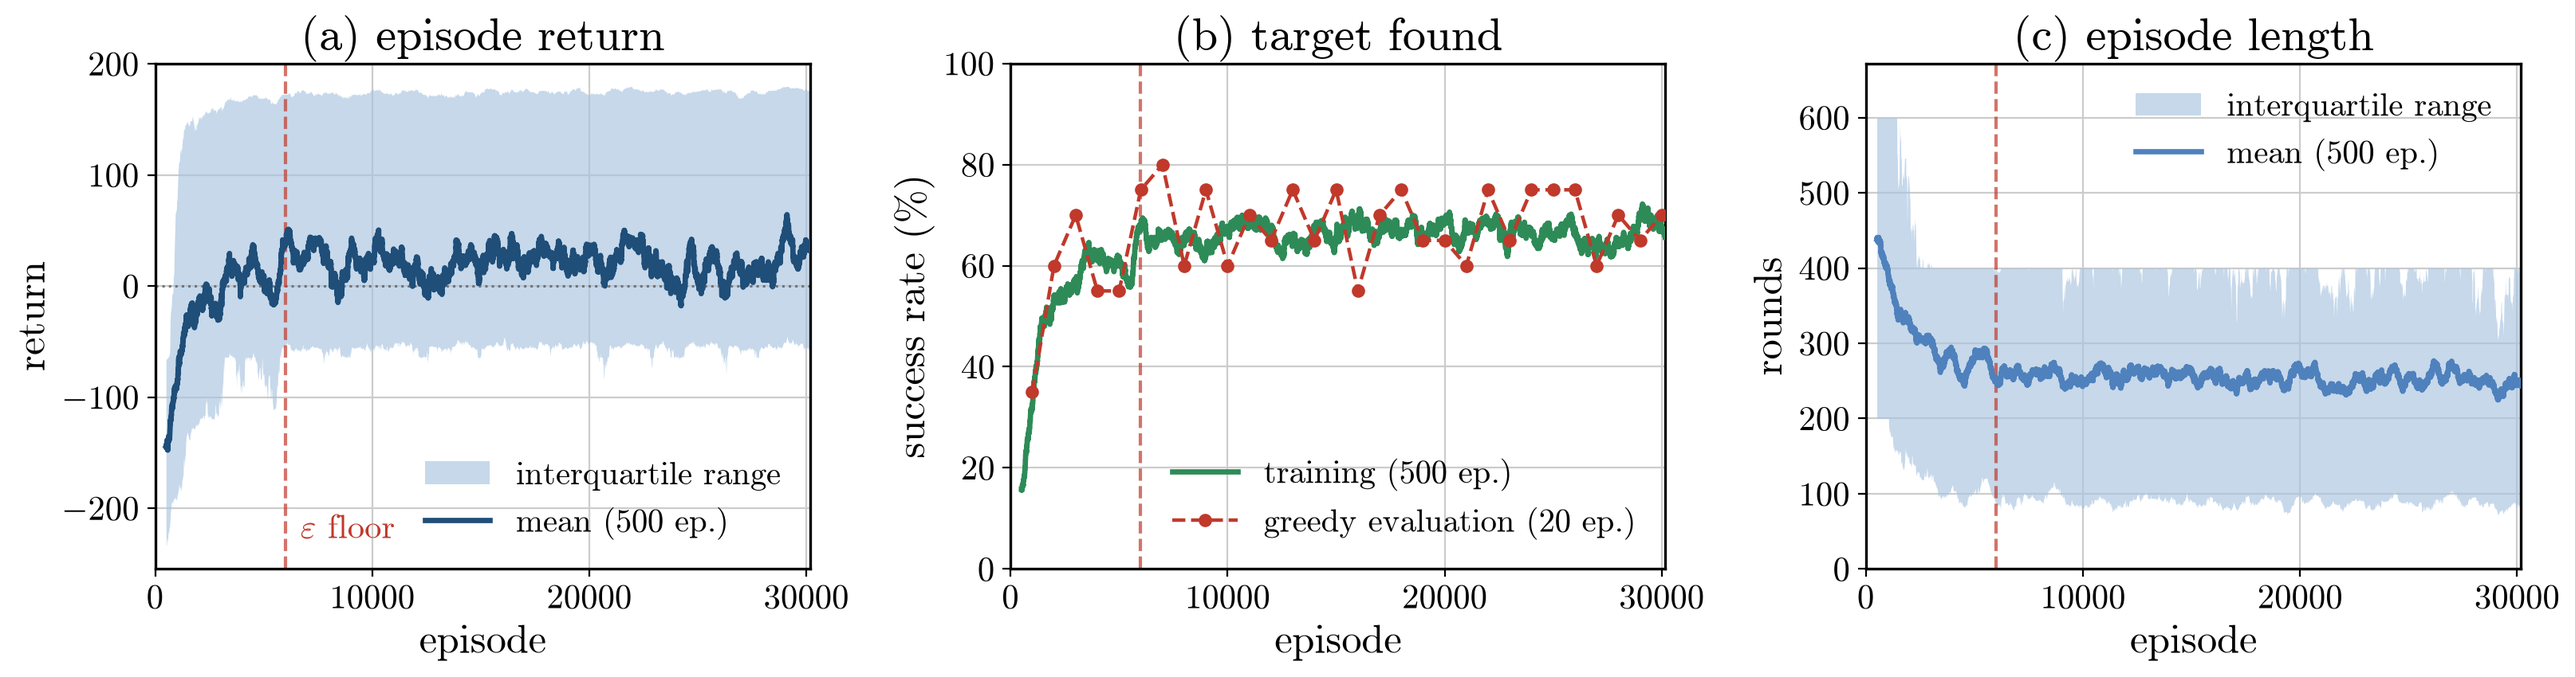
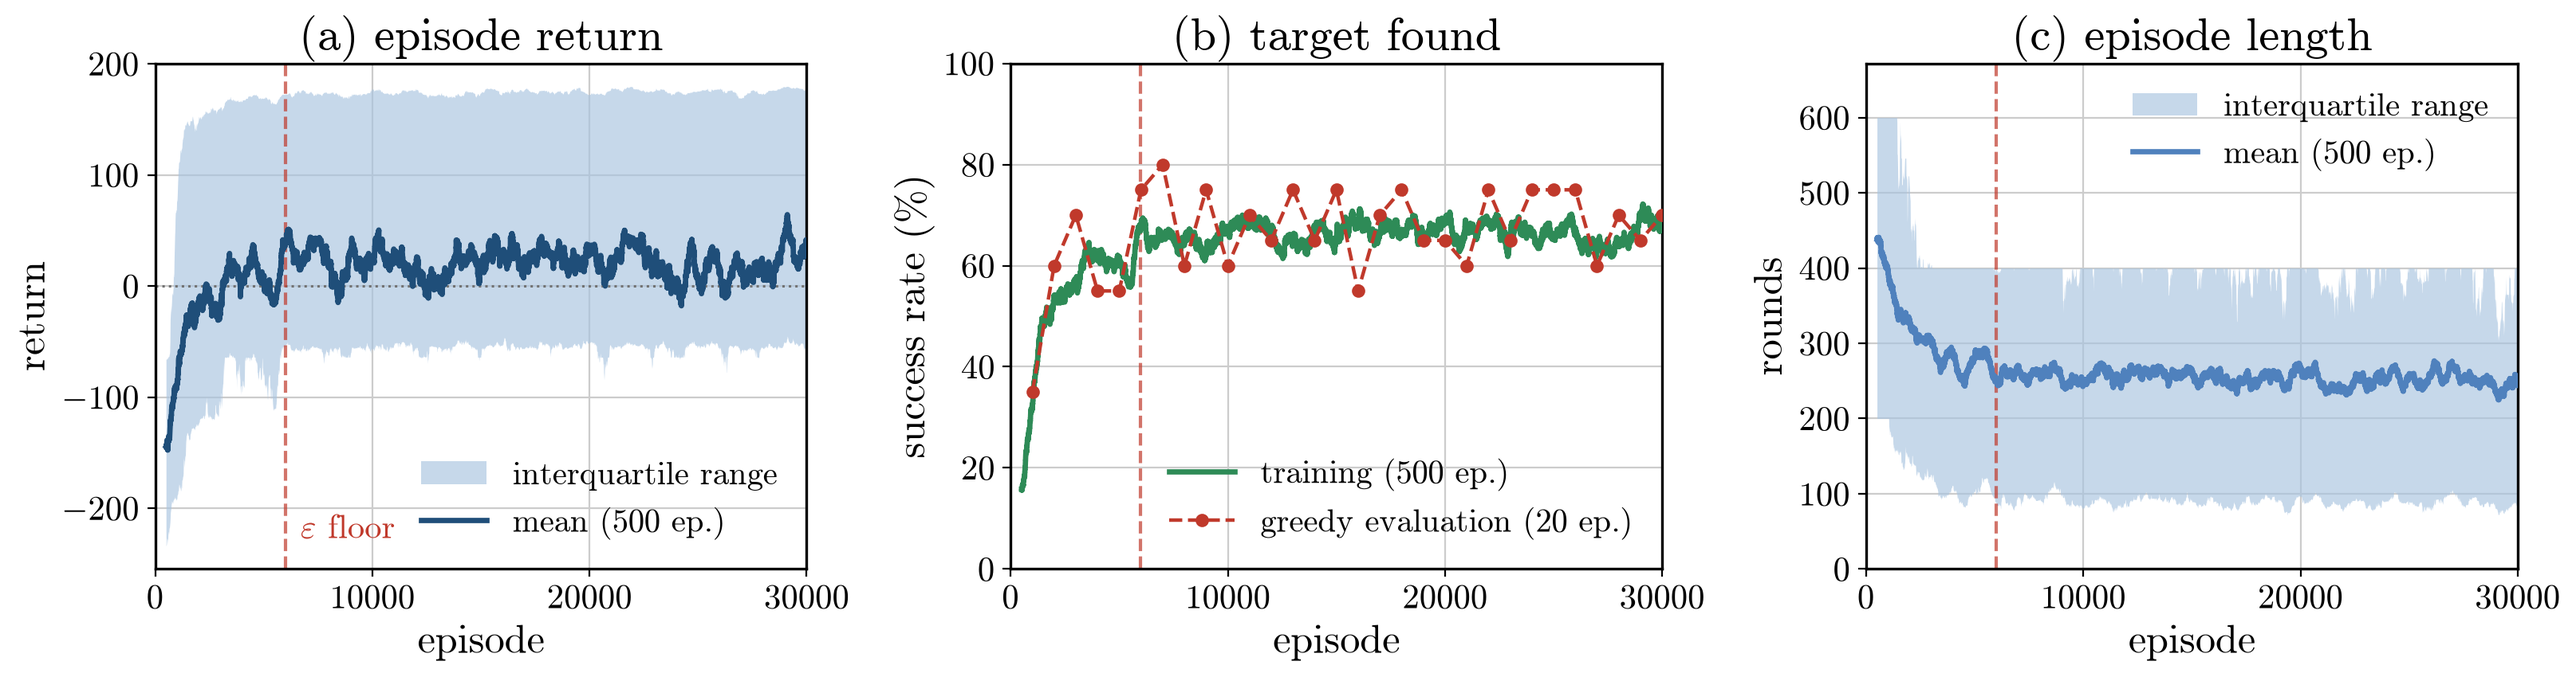
Report: reframe training-telemetry figures as the first 30,000-episode tranche
Present Figures 5 and 6 as the first tranche of the multi-job run rather than
as a partial log, and tighten both captions.

- Sec. 5.5: the paragraph now states that the figures report the 30,000
  episodes that fitted inside a single allocation and that the curves have
  already stabilized by then.
- Round 30,169 to 30,000 in prose and captions, and clip the figure axes to
  30,000 so text and plots agree.
- Shorten both captions by roughly half.

diff --git a/report/sections/05_training.tex b/report/sections/05_training.tex
@@ -229,36 +229,29 @@ which is shorter than a $50{,}000$-episode run at this configuration. The
 final run was therefore executed as a \emph{sequence} of jobs, each resuming
 from \texttt{last.pt} and continuing the curriculum, schedules and optimizer
 state as if uninterrupted --- exactly the scenario the resumption machinery
-above was built for. Each job opens its own TensorBoard event file, and only
-the first was recovered: it covers episodes $1$ to $30{,}169$, the
-$2$d\,$22$h\,$53$m of training that fitted inside a single allocation. The
-later files were lost to the cluster's $40$-day purge of unmodified scratch
-files. Figures~\ref{fig:training-curves} and~\ref{fig:training-eval}
-therefore show the first $60\%$ of the run. Little is lost with the rest:
-every logged quantity has flattened by roughly episode $7{,}000$ and none of
-them trends over the $23{,}000$ logged episodes that follow, and the
-checkpoint-level learning curve of Figure~\ref{fig:epoch} --- reconstructed
-by re-evaluating the saved weights, and so independent of the event files ---
+above was built for. Each job logs to its own TensorBoard event file, and
+Figures~\ref{fig:training-curves} and~\ref{fig:training-eval} report the
+first tranche: the $30{,}000$ episodes that fitted inside a single
+allocation. They are the informative ones, since every logged quantity has
+flattened by roughly episode $7{,}000$ and none of them trends over the
+$23{,}000$ episodes that follow; the checkpoint-level learning curve of
+Figure~\ref{fig:epoch}, reconstructed by re-evaluating the saved weights,
 covers the full $50{,}000$ episodes.
 
 \begin{figure}[t]
 \centering
 \includegraphics[width=\textwidth]{fig_training_curves.png}
-\caption{Per-episode training telemetry over the first $30{,}169$ episodes of
+\caption{Per-episode training telemetry over the first $30{,}000$ episodes of
 the final run. Solid curves are $500$-episode moving averages, shaded bands
-the corresponding interquartile ranges, and the dashed vertical line marks
-the episode at which $\varepsilon$ reaches its floor
-(Figure~\ref{fig:schedules}a). \emph{(a)} Mean return crosses zero at around
-episode $2{,}500$ and settles near $+25$. \emph{(b)} The fraction of episodes
-in which the target is found climbs from $16\%$ to a plateau of
-$65\text{--}68\%$, with the fixed-instance greedy evaluation (red) tracking
-the exploratory training curve closely. \emph{(c)} Mean episode length falls
-from $440$ to roughly $250$ rounds, so the policy converges on \emph{whether}
-it finds the target and on \emph{how fast} together. The bands stay wide
-throughout because every episode draws a fresh randomization $\theta$: their
-width measures the difficulty mix of Section~\ref{subsec:train-dr} rather
-than instability, since a myopic solo drone in a cluttered map and a
-far-sighted team of four both fall inside every window.}
+the corresponding interquartile ranges; the dashed line marks the episode at
+which $\varepsilon$ reaches its floor (Figure~\ref{fig:schedules}a).
+\emph{(a)} Mean return crosses zero at around episode $2{,}500$ and settles
+near $+25$; \emph{(b)} the target is found in $65\text{--}68\%$ of episodes
+at the plateau, with the greedy evaluation (red) tracking the exploratory
+training curve; \emph{(c)} mean episode length falls from $440$ to roughly
+$250$ rounds. The bands stay wide because every episode draws a fresh
+randomization $\theta$: their width measures the difficulty mix of
+Section~\ref{subsec:train-dr}, not instability.}
 \label{fig:training-curves}
 \end{figure}
 
@@ -267,18 +260,14 @@ far-sighted team of four both fall inside every window.}
 \includegraphics[width=0.9\textwidth]{fig_training_eval.png}
 \caption{In-training greedy evaluation of the same run, executed every
 $1{,}000$ episodes on the fixed bank of $20$ seeded instances that drives
-checkpoint selection. \emph{(a)} Success rate and \emph{(b)} mean return,
-with the best value of each circled. These levels are deliberately not
-comparable with those of Section~\ref{sec:experiments}: the bank is drawn
-from the \emph{full} randomization ranges --- solo drones, $\rvis{=}1$,
-faults active --- whereas Section~\ref{sec:experiments} measures at the
-reference operating point, which sits at the centre of those ranges. The
+checkpoint selection; \emph{(a)} success rate and \emph{(b)} mean return,
+best values circled. These levels are not comparable with those of
+Section~\ref{sec:experiments}: this bank samples the \emph{full}
+randomization ranges --- solo drones, $\rvis{=}1$, faults active --- whereas
+Section~\ref{sec:experiments} measures at the reference operating point. The
 $5$-point sawtooth in \emph{(a)} is the quantization of a $20$-instance bank,
-one episode being worth five points; it is precisely the noise that the
-strict-improvement selection rule of
+which is the noise the strict-improvement selection rule of
 Section~\ref{subsec:train-correctness} is designed not to chase. Both panels
-flatten by around episode $7{,}000$, and their local minima at episodes
-$16{,}000$ and $21{,}000$ fall in the same stretch of the run as the dip seen
-in Figure~\ref{fig:epoch}.}
+flatten by around episode $7{,}000$.}
 \label{fig:training-eval}
 \end{figure}
